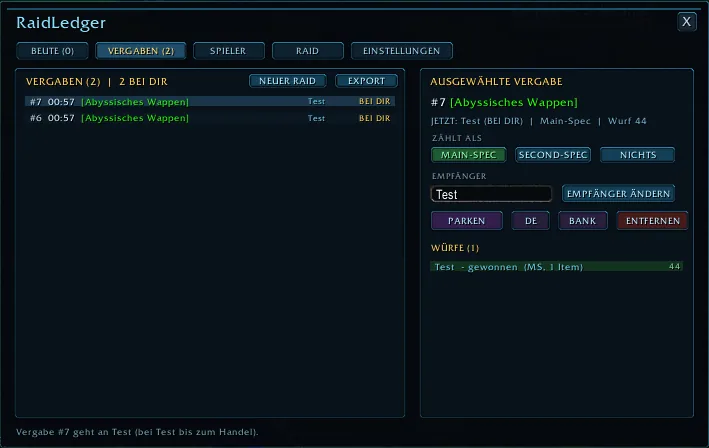
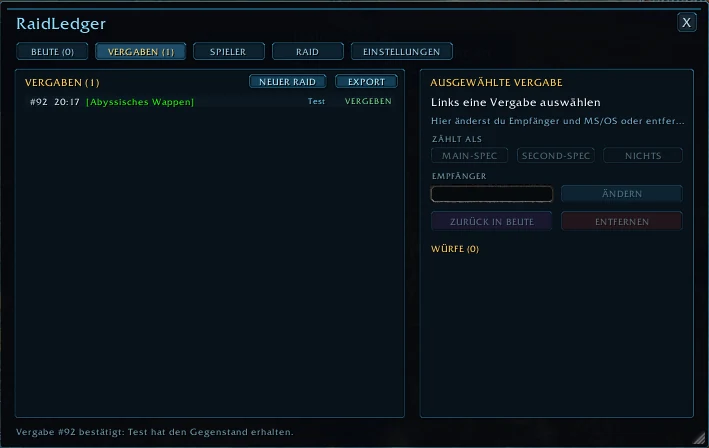
feat: RaidLedger 2.7.0 screenshots on the Addons page
Replaces the eight RaidLedger screenshots with crops from live test runs of
2.7.0 and adds the master-loot popup and its recipient chooser.

diff --git a/web/src/pages/Addons.tsx b/web/src/pages/Addons.tsx
@@ -209,7 +209,7 @@ function RaidLedgerPage({ addon, error }: { addon?: AddonDownload, error: string
 
       <Feature title="2. Kalender-Termin anlegen" shot={<>
         <Shot name="raidledger-termin-erstellen" caption="Nach KALENDER-TERMIN: TERMIN ERSTELLEN legt den Termin an" width={709} height={448} />
-        <Shot name="raidledger-termin-chat" caption="Der Chat meldet, dass der Server den Termin bestätigt hat" width={410} height={68} />
+        <Shot name="raidledger-termin-chat" caption="Der Chat meldet, dass der Server den Termin bestätigt hat" width={414} height={51} />
       </>}>
         <p>Die Einladungsliste enthält <strong>Datum und Startzeit</strong> des Raids. Daraus legt RaidLedger einen Raid-Termin im Spielkalender an und lädt alle ein, auch die Ersatzbank.</p>
         <ol>
@@ -220,7 +220,7 @@ function RaidLedgerPage({ addon, error }: { addon?: AddonDownload, error: string
         <Tip><strong>Gut zu wissen:</strong> Datum und Uhrzeit stehen nur bei Raids aus einer <strong>Raidserie</strong> in der Liste, in der Zeitzone der Serie (Serverzeit). Der Spielkalender nimmt nur Termine in der Zukunft und Titel bis 100 Zeichen.</Tip>
       </Feature>
 
-      <Feature title="3. Würfeln nach unseren Regeln" shot={<Shot name="raidledger-wurf-chat" caption="Ansagen im Gruppenchat: Wurfstart, Countdown, Gewinner mit bisherigen Items" width={380} height={116} />}>
+      <Feature title="3. Würfeln nach unseren Regeln" shot={<Shot name="raidledger-wurf-chat" caption="Ansagen im Gruppenchat: Wurfstart, Countdown, Gewinner mit bisherigen Items" width={414} height={118} />}>
         <p>Im Reiter <strong>BEUTE</strong> das Item auswählen und <strong>WÜRFELN</strong> klicken (oder <code>/ledger start</code>): Der Raid hat 30 Sekunden, einstellbar unter <strong>EINSTELLUNGEN</strong>. Zur Hälfte und zu einem Viertel der Zeit erinnert das Addon.</p>
         <ul>
           <li><code>/rnd 100</code> ist <strong>Main-Spec</strong>, <code>/rnd 99</code> ist <strong>Second-Spec</strong>.</li>
@@ -232,7 +232,10 @@ function RaidLedgerPage({ addon, error }: { addon?: AddonDownload, error: string
         <p>Neben der Beute steht die Wurfliste in Gewinner-Reihenfolge, mit <strong>BISHER</strong>: wie viele Items der Würfler in diesem Spec schon hat. <strong>Rechtsklick</strong> auf einen Wurf: <strong>PASST</strong> (der Nächste gewinnt), als <strong>MAIN-SPEC</strong>, <strong>SECOND-SPEC</strong>, <strong>ZÄHLT NICHT</strong> oder mit korrigierten Enhanced-Punkten werten. Jede Änderung wird im Raid angesagt.</p>
       </Feature>
 
-      <Feature title="4. Vergeben und nachhalten" shot={<Shot name="raidledger-vergaben" caption="VERGABEN: die ausgewählte Vergabe mit Spec, Empfänger und Würfen" width={709} height={448} />}>
+      <Feature title="4. Vergeben und nachhalten" shot={<>
+        <Shot name="raidledger-pluendern" caption="Das kleine Fenster beim Plündern: WÜRFELN, ZUWEISEN oder SPÄTER WÜRFELN" width={424} height={82} />
+        <Shot name="raidledger-vergaben" caption="VERGABEN: alle Vergaben des Raids, rechts wird die ausgewählte korrigiert" width={709} height={448} />
+      </>}>
         <ul>
           <li>Öffnest du als Plündermeister eine Leiche, erscheint ein <strong>kleines Fenster</strong> mit ihren Items, auch wenn RaidLedger selbst geschlossen ist. Item anklicken, dann <strong>WÜRFELN</strong>, <strong>ZUWEISEN</strong> (direkt an einen Spieler aus der Raidliste) oder <strong>SPÄTER WÜRFELN</strong>.</li>
           <li>Nach dem Wurf steht der Gewinner im Reiter <strong>BEUTE</strong> als Empfänger bereit. Klick auf einen Wurf macht diesen Spieler zum Empfänger, <strong>ALLE (n)</strong> zeigt den ganzen Raid nach Gruppen.</li>
@@ -253,7 +256,10 @@ function RaidLedgerPage({ addon, error }: { addon?: AddonDownload, error: string
         </ul>
       </Feature>
 
-      <Feature title="6. Später würfeln: Taschen, offene Items" shot={<Shot name="raidledger-offene-items" caption="Ein offenes Item bleibt in der Beute unter OFFENE ITEMS, bei Test" width={709} height={448} />}>
+      <Feature title="6. Später würfeln: Taschen, offene Items" shot={<>
+        <Shot name="raidledger-empfaenger" caption="SPÄTER WÜRFELN fragt, wer das Item bis zum Wurf behält" width={424} height={138} />
+        <Shot name="raidledger-offene-items" caption="Ein offenes Item bleibt in der Beute unter OFFENE ITEMS, bei Test" width={709} height={448} />
+      </>}>
         <ul>
           <li><strong>SPÄTER WÜRFELN</strong> im kleinen Plündern-Fenster fragt, wer das Item bis zum Wurf behält, und gibt es direkt von der Leiche an ihn, z. B. bei einzigartigen Items.</li>
           <li><strong>Items aus deinen Taschen</strong> würfelst du mit <kbd>Alt</kbd>+Klick auf das Item aus (oder <code>/ledger roll</code>). Der Gewinner bekommt es per Handel.</li>

diff --git a/web/src/release.ts b/web/src/release.ts
@@ -1,8 +1,13 @@
-export const appVersion = '1.0.77'
+export const appVersion = '1.0.78'
 
 export const changelog = [
   {
     version: appVersion,
+    title: 'Neue RaidLedger-Bilder',
+    changes: ['Die Addon-Seite zeigt RaidLedger jetzt mit Bildern aus Version 2.7.0, auch vom kleinen Fenster beim Plündern.'],
+  },
+  {
+    version: '1.0.77',
     title: 'RaidLedger 2.7.0',
     changes: ['Beim Plündern erscheint als Plündermeister ein kleines Fenster mit Würfeln, Zuweisen und Später würfeln. Der Reiter Beute führt in zwei Schritten durch die Vergabe, und Rollstarts kommen als Schlachtzugswarnung.', 'Handel und Plündern als Gruppe werden nicht mehr verfolgt. Das Fenster lässt sich jetzt vergrößern und skalieren.'],
   },
